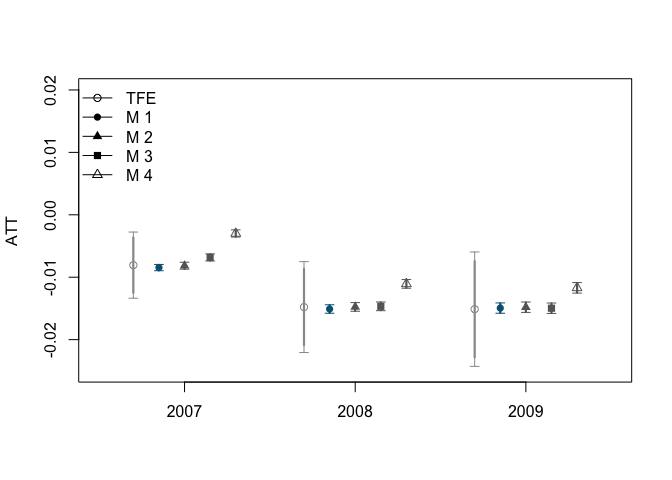
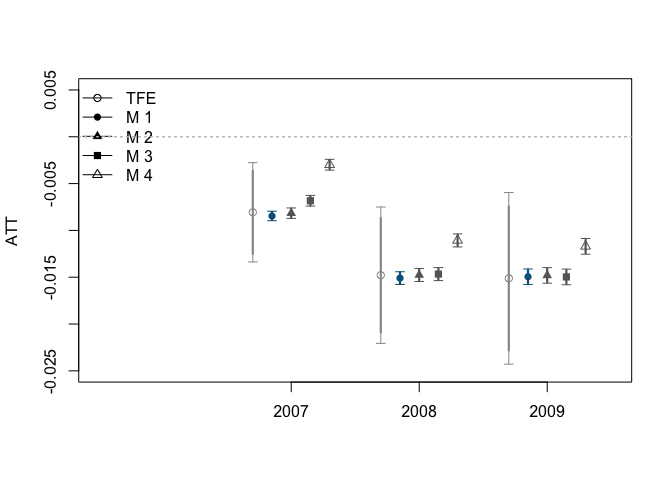
update readme

diff --git a/README.md b/README.md
@@ -70,12 +70,12 @@ summary(fit_np)
 
     ##                                2007             2008             2009
     ## 1   D-DiD      ATT           -0.007           -0.012           -0.012
-    ## 2           95% CI [-0.013, -0.002]  [-0.02, -0.004] [-0.023, -0.001]
+    ## 2           95% CI [-0.012, -0.002] [-0.023, -0.003] [-0.023, -0.001]
     ## 3              BIC          -18.018          -18.018          -18.018
     ## 4             HQIC           -9.147           -9.147           -9.147
     ## 5         Selected               M1               M1               M1
     ## 6 Std-DiD      ATT           -0.007           -0.011           -0.011
-    ## 7           95% CI [-0.011, -0.002] [-0.019, -0.004]  [-0.02, -0.001]
+    ## 7           95% CI      [-0.013, 0] [-0.019, -0.003]  [-0.022, 0.001]
 
 ``` r
 # plot results 
@@ -115,7 +115,8 @@ summary(fit_p1)
 
 ``` r
 # plot function 
-plot(fit_p1, full = TRUE, ylim = c(-0.025, 0.02))
+plot(fit_p1, full = TRUE, ylim = c(-0.025, 0.005), xlim = c(-0.5, 3.5))
+abline(h = 0, col = 'gray', lwd = 1.5, lty = 3)
 ```
 
 ![](README_files/figure-markdown_github/unnamed-chunk-4-1.png)
@@ -150,10 +151,10 @@ summary(fit_p2)
 
 ``` r
 # plot function 
-par(mfrow = c(1,2))
-plot(fit_p1, full = TRUE, ylim = c(-0.03, 0.005), xlim = c(-0.5, 3.5), main = "With Covariates")
+par(mfrow = c(1,2), mar = c(4, 4, 3.5, 1))
+plot(fit_p1, full = TRUE, ylim = c(-0.025, 0.005), xlim = c(-0.5, 3.5), main = "With Covariates")
 abline(h = 0, col = 'gray', lwd = 1.5, lty = 3)
-plot(fit_p2, full = TRUE, ylim = c(-0.03, 0.005), xlim = c(-0.5, 3.5), main = 'Without Covariates')
+plot(fit_p2, full = TRUE, ylim = c(-0.025, 0.005), xlim = c(-0.5, 3.5), main = 'Without Covariates')
 abline(h = 0, col = 'gray', lwd = 1.5, lty = 3)
 ```
 
